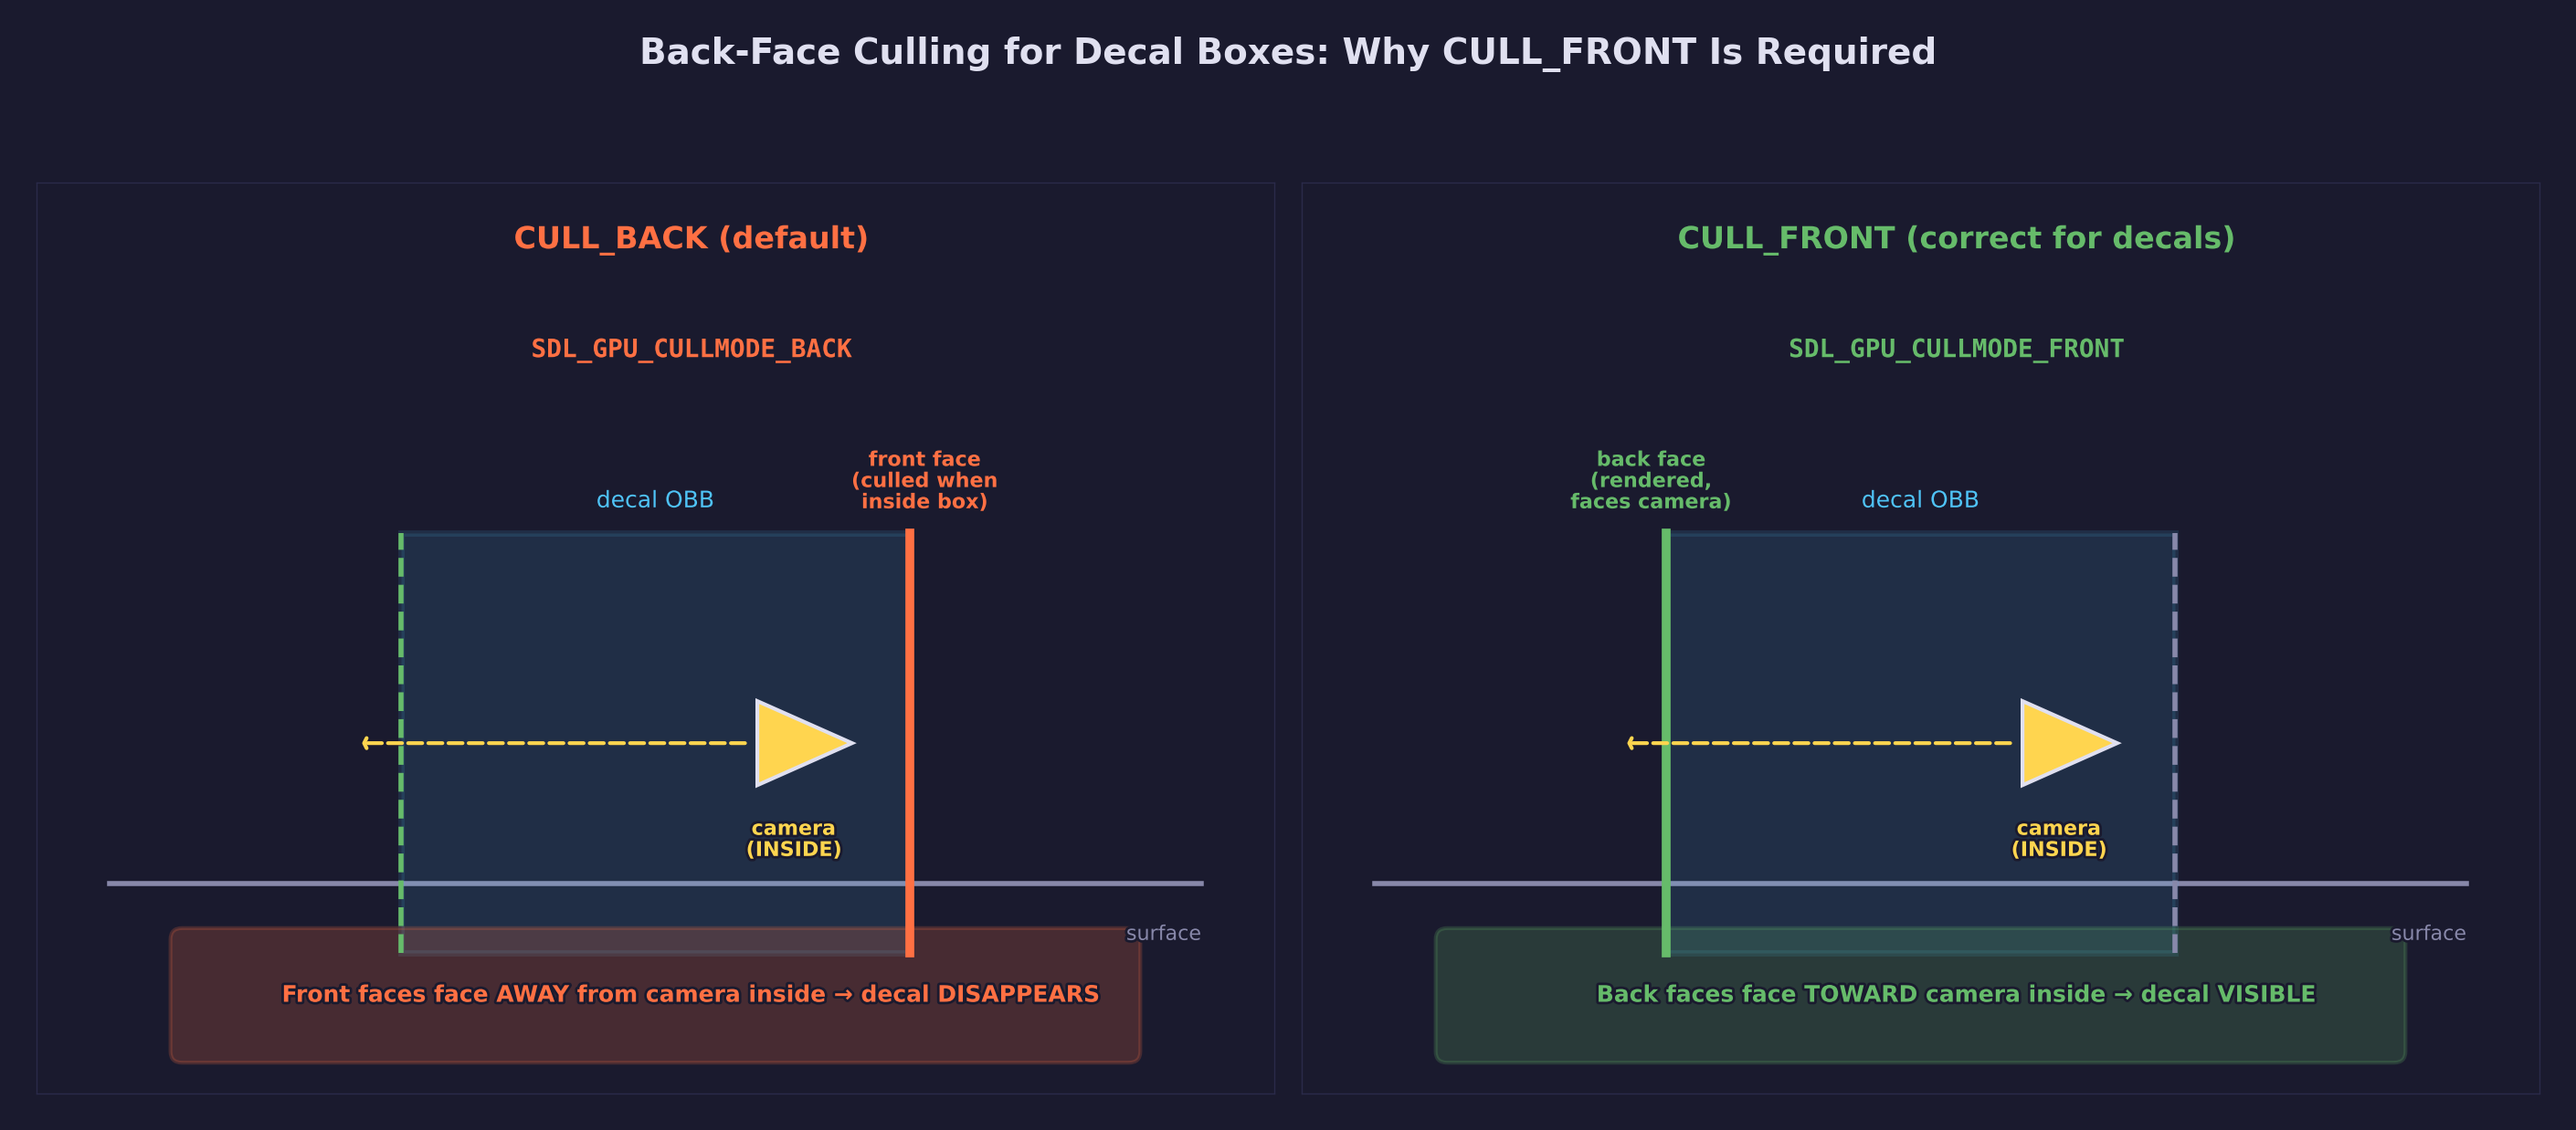
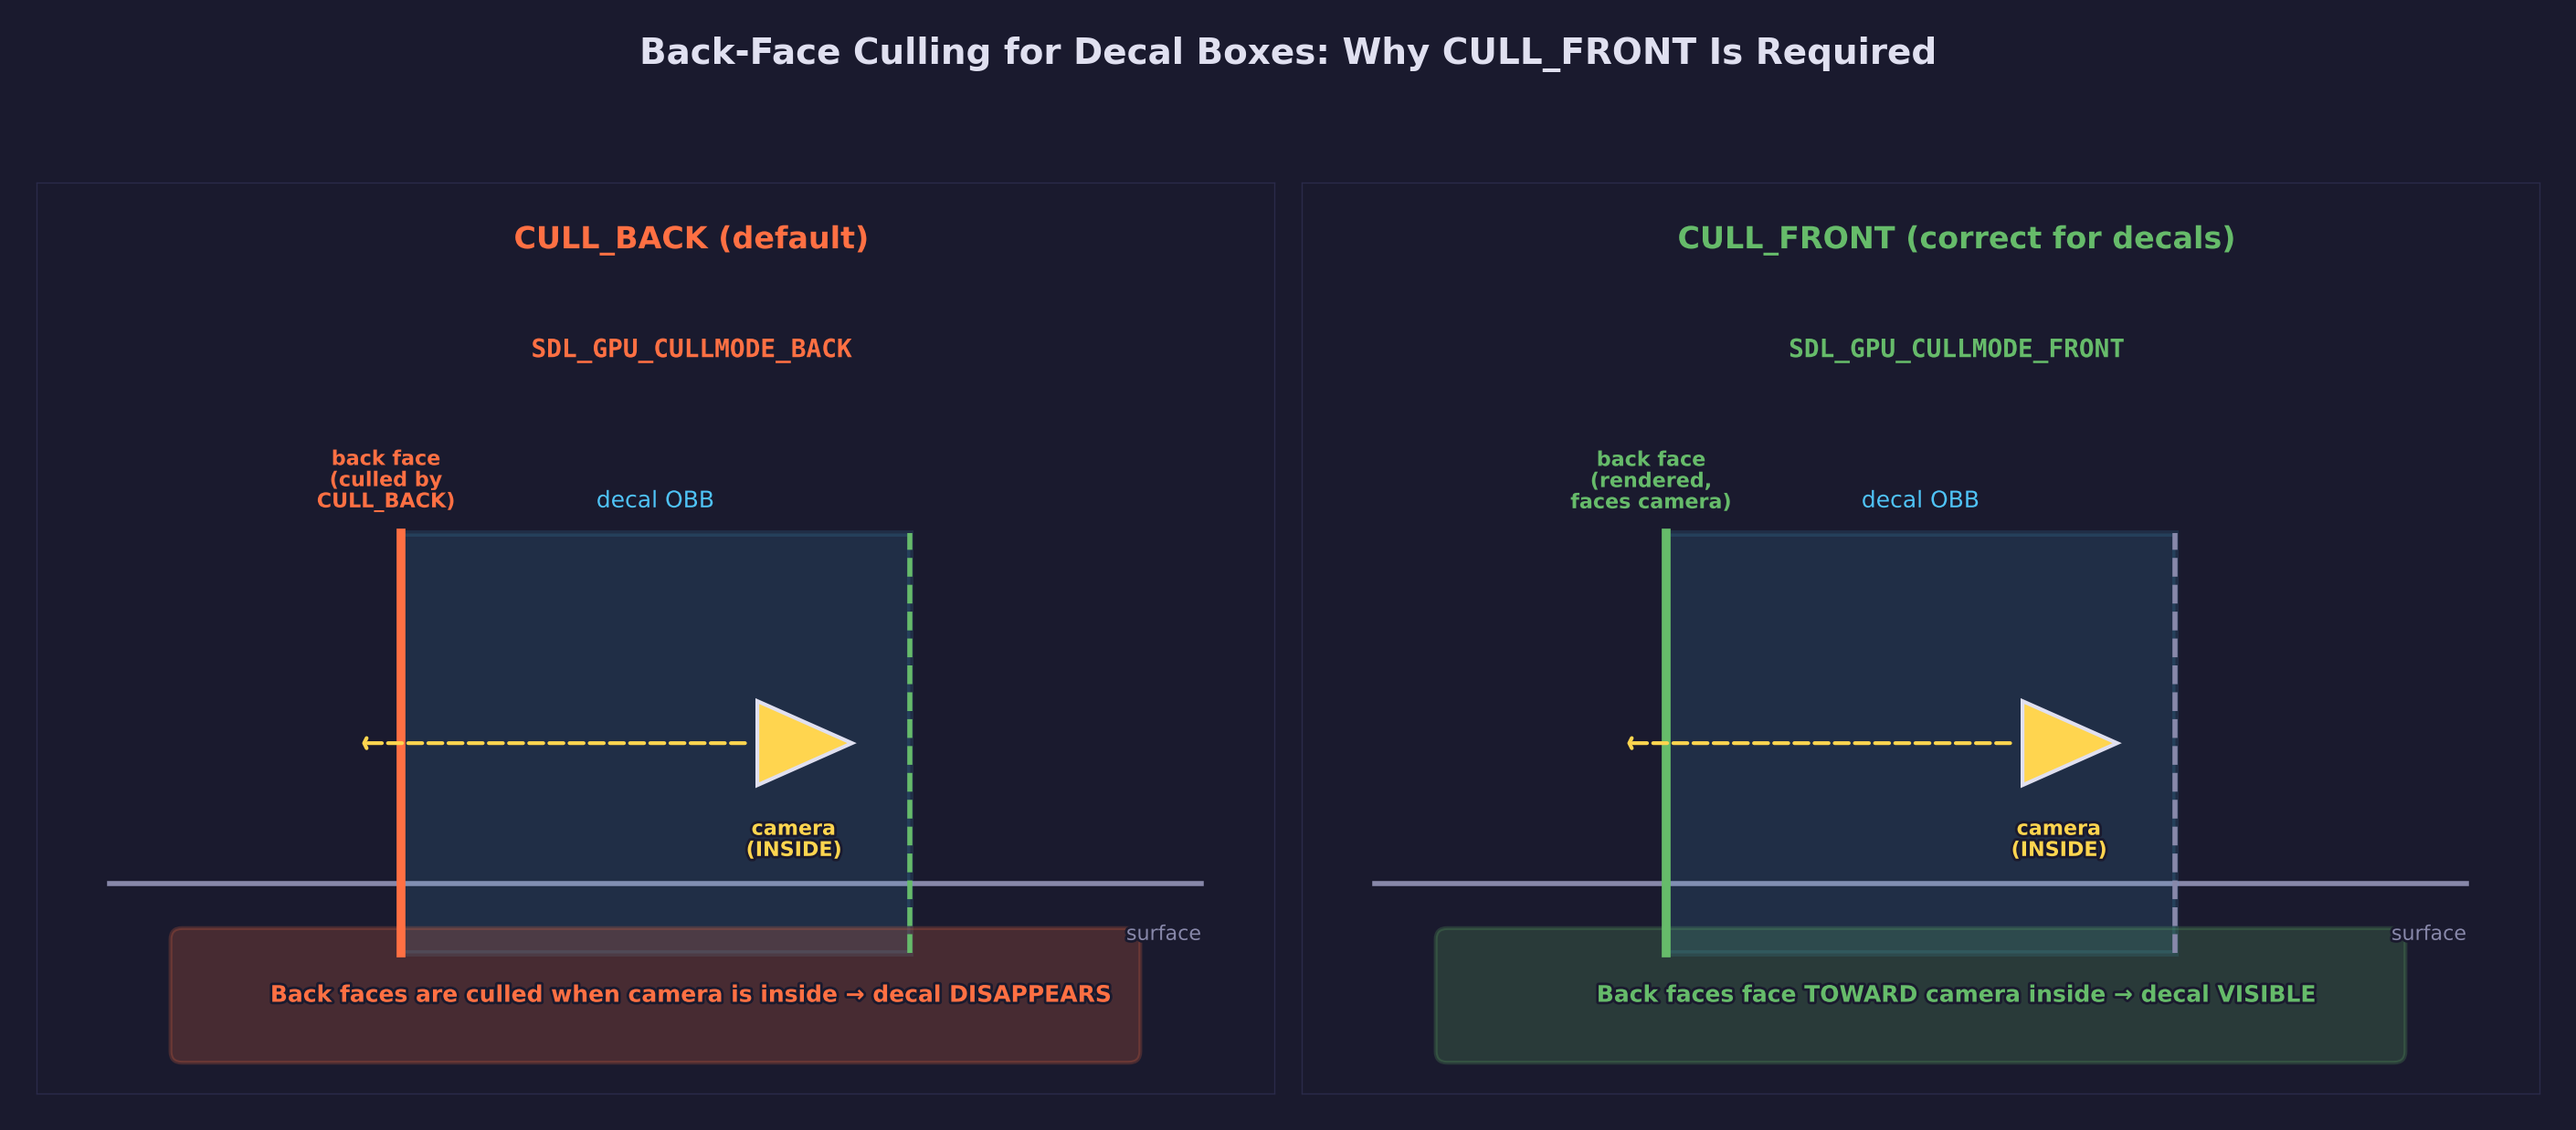
Address PR #185 round 4 feedback: diagram fixes and shader leak
- Fix CULL_BACK panel text: "back face (culled by CULL_BACK)" not "front face"
- Fix projection arrow rotation to use same (cos*x - sin*y, sin*x + cos*y)
  convention as box corners and ray origins
- Release partially-created shaders on early-return when any shader fails
- Increase ray marcher iteration cap (200 steps at 0.02) so all rays reach
  the curved surface reliably

diff --git a/scripts/forge_diagrams/gpu_diagrams.py b/scripts/forge_diagrams/gpu_diagrams.py
@@ -17748,12 +17748,12 @@ def diagram_decal_box_projection():
         # Solve: ry_top + t * proj_dy = -0.12 * (rx_top + t * proj_dx)^2 - 0.8
         # Use iterative approach for robustness
         hit_x, hit_y = rx_top, ry_top
-        for _ in range(50):
+        for _ in range(200):
             surface_y = -0.12 * hit_x**2 - 0.8
             if hit_y <= surface_y:
                 break
-            hit_x += proj_dx * 0.05
-            hit_y += proj_dy * 0.05
+            hit_x += proj_dx * 0.02
+            hit_y += proj_dy * 0.02
         ax.plot(
             [rx_top, hit_x],
             [ry_top, hit_y],
@@ -17766,10 +17766,10 @@ def diagram_decal_box_projection():
 
     # Arrow label for projection direction (rotated with OBB)
     arrow_offset = box_hw + 0.6
-    arrow_top_x = cos_t * arrow_offset + sin_t * (box_hh - 0.2) + 0
-    arrow_top_y = -sin_t * arrow_offset + cos_t * (box_hh - 0.2) + box_cy
-    arrow_bot_x = cos_t * arrow_offset - sin_t * (box_hh - 0.2) + 0
-    arrow_bot_y = -sin_t * arrow_offset - cos_t * (box_hh - 0.2) + box_cy
+    arrow_top_x = cos_t * arrow_offset - sin_t * (box_hh - 0.2)
+    arrow_top_y = sin_t * arrow_offset + cos_t * (box_hh - 0.2) + box_cy
+    arrow_bot_x = cos_t * arrow_offset - sin_t * (-box_hh + 0.2)
+    arrow_bot_y = sin_t * arrow_offset + cos_t * (-box_hh + 0.2) + box_cy
     ax.annotate(
         "",
         xy=(arrow_bot_x, arrow_bot_y),
@@ -17805,12 +17805,12 @@ def diagram_decal_box_projection():
         wx = cos_t * lx - sin_t * box_hh
         wy = sin_t * lx + cos_t * box_hh + box_cy
         hx, hy = wx, wy
-        for _ in range(50):
+        for _ in range(200):
             sy = -0.12 * hx**2 - 0.8
             if hy <= sy:
                 break
-            hx += proj_dx * 0.05
-            hy += proj_dy * 0.05
+            hx += proj_dx * 0.02
+            hy += proj_dy * 0.02
         decal_xs.append(hx)
         decal_ys.append(hy)
     ax.plot(decal_xs, decal_ys, color=STYLE["accent2"], linewidth=4, zorder=3)
@@ -18652,9 +18652,9 @@ def diagram_back_face_culling_decals():
         STYLE["accent2"],
         "SDL_GPU_CULLMODE_BACK",
         camera_inside=True,
-        result_text="Front faces face AWAY from camera inside \u2192 decal DISAPPEARS",
+        result_text="Back faces are culled when camera is inside \u2192 decal DISAPPEARS",
         result_color=STYLE["accent2"],
-        face_label="front face\n(culled when\ninside box)",
+        face_label="back face\n(culled by\nCULL_BACK)",
         face_color=STYLE["accent2"],
     )
 

diff --git a/lessons/gpu/35-decals/main.c b/lessons/gpu/35-decals/main.c
@@ -1057,6 +1057,15 @@ SDL_AppResult SDL_AppInit(void **appstate, int argc, char *argv[])
     if (!scene_vert || !scene_frag || !shadow_vert || !shadow_frag ||
         !grid_vert || !grid_frag || !decal_vert || !decal_frag) {
         SDL_Log("ERROR: One or more shaders failed to compile");
+        /* Release any shaders that were successfully created */
+        if (scene_vert)  SDL_ReleaseGPUShader(device, scene_vert);
+        if (scene_frag)  SDL_ReleaseGPUShader(device, scene_frag);
+        if (shadow_vert) SDL_ReleaseGPUShader(device, shadow_vert);
+        if (shadow_frag) SDL_ReleaseGPUShader(device, shadow_frag);
+        if (grid_vert)   SDL_ReleaseGPUShader(device, grid_vert);
+        if (grid_frag)   SDL_ReleaseGPUShader(device, grid_frag);
+        if (decal_vert)  SDL_ReleaseGPUShader(device, decal_vert);
+        if (decal_frag)  SDL_ReleaseGPUShader(device, decal_frag);
         return SDL_APP_FAILURE;
     }
 
